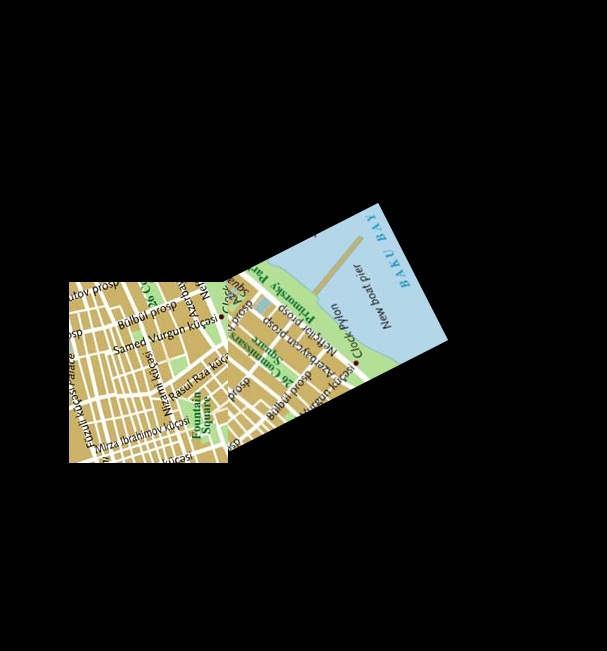
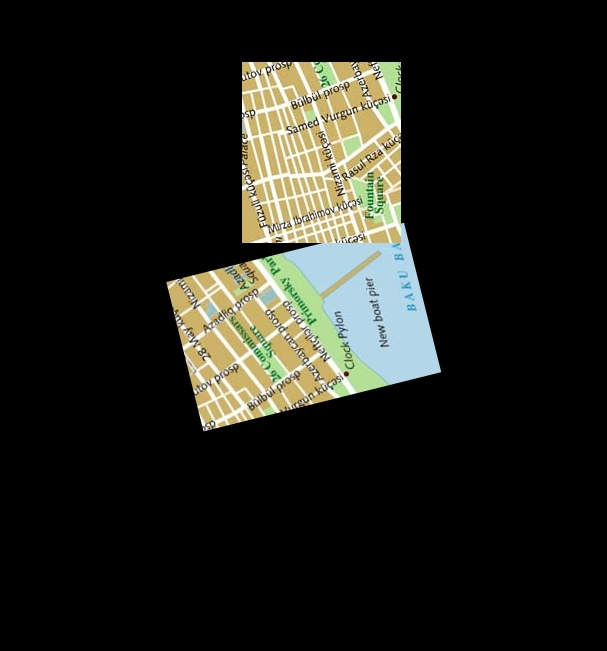
Rotate elements using numpy for

Changed region(s): [[0.089, 0.0922, 0.7414, 0.7373]]

diff --git a/CoordinateSystem.py b/CoordinateSystem.py
@@ -1,4 +1,5 @@
 from shapely.geometry import Polygon
+from shapely.geometry import CAP_STYLE
 from shapely.geometry import Point
 from shapely.affinity import affine_transform
 from shapely.affinity import rotate
@@ -20,6 +21,7 @@ class CoordinateSystem:
 
     def __init__(self,centre):
         self.centreOfRectangle2 = centre
+        CAP_STYLE.flat
     
     def set_rectangles(self,rectangles):
         # plt.clf()
@@ -33,21 +35,19 @@ class CoordinateSystem:
         # plt.plot(x2, y2,color='black')
         
     def rotateElement(self,geometricFigure, thetha):
-        # Start = time.time()
+        Start = time.time()
         # a = math.cos(thetha)
         # b = math.sin(thetha)
         centrex, centrey = Polygon(self.rectangle2).centroid.coords.xy
         centrex, centrey = centrex[0], centrey[0]
-        # M = [a,-b,b,a,(1-a)*centrex+b*centrey,centrey -b*centrex-a*centrey]
-        # rotated = affine_transform(geometricFigure,M)
+        coords = np.array(geometricFigure.coords)
+        rotated = np.array([self.rotateTranslateCoordinates(tuple(point),centrex,centrey,thetha) for point in coords])
+        rotated = rotated.T
+        # rotated = rotate(geometricFigure, thetha,origin=(centrex,centrey))
         # rotated = loads(dumps(rotated, rounding_precision=0))
-
-        rotated = rotate(geometricFigure, thetha,origin=(centrex,centrey))
-        
-        
-        # end = time.time()
-        # print("Rotate line: ",end-Start,"\n\n" )
-        return rotated
+        end = time.time()
+        print("Rotate line: ",end-Start,"\n\n" )
+        return rotated.astype(int)
 
     def rotateTranslateCoordinates(self,coor,centreX,centreY,angle):
         X,Y = coor
@@ -112,9 +112,12 @@ class CoordinateSystem:
         # print("geting the coornates: ",end-Start,"\n\n" )
         return LineString(coordinatesInPolygon)
 
+    def get_numpy_coords(self, shape):
+        coordintes = np.array(shape.xy)
+        return coordintes
+
     def make_image_format_indexing(self,coordintes):
         # Start = time.time()
-        coordintes = np.array(coordintes.xy)
         new_format = np.repeat(coordintes,3,1)
         new_format = np.append(new_format,np.array([np.tile(np.array([0,1,2]),int(len(coordintes[0])))]),axis=0)
         # end = time.time()
@@ -138,12 +141,13 @@ class CoordinateSystem:
         coordintes_of_intersection = self.get_coordinates_in_polygon(intersection)
         if coordintes_of_intersection == -1:
             return -1
-        initialPolygon2 = self.rotateElement(coordintes_of_intersection,-thetha)
+        numpy_coords_2 = self.rotateElement(coordintes_of_intersection,-thetha)
         initialPolygon1 = self.shiftAnElement(coordintes_of_intersection,SHIFT_X,SHIFT_Y)
         # x2, y2 =initialPolygon2.coords.xy	
         # plt.plot(x2, y2,color='blue')
-        coordinates_in_polygon1 = self.make_image_format_indexing(initialPolygon1)
-        coordinates_in_polygon2 = self.make_image_format_indexing(initialPolygon2)
+        numpy_coords_1 = self.get_numpy_coords(initialPolygon1)
+        coordinates_in_polygon1 = self.make_image_format_indexing(numpy_coords_1)
+        coordinates_in_polygon2 = self.make_image_format_indexing(numpy_coords_2)
         coordinates_in_polygon1 = self.makeImageCoordinateFormat(coordinates_in_polygon1)
         coordinates_in_polygon2 = self.makeImageCoordinateFormat(coordinates_in_polygon2)
         # plt.axis('equal')

diff --git a/ImageStitcher.py b/ImageStitcher.py
@@ -42,8 +42,8 @@ class ImageStitcher:
 
     def calculateLoss(self,SHIFT):
         SHIFT_X,SHIFT_Y, thetha = SHIFT
-        SHIFT_X, SHIFT_Y, thetha = int(SHIFT_X*(self.w1+self.w2)),int(SHIFT_Y*(self.h1+self.h2)),int(thetha*360)
-        # SHIFT_X, SHIFT_Y, thetha = int(SHIFT_X),int(SHIFT_Y),int(thetha)
+        # SHIFT_X, SHIFT_Y, thetha = int(SHIFT_X*(self.w1+self.w2)),int(SHIFT_Y*(self.h1+self.h2)),int(thetha*360)
+        SHIFT_X, SHIFT_Y, thetha = int(SHIFT_X),int(SHIFT_Y),int(thetha)
         sys.stdout.write("\r    SHIFT_X:{0},    SHIFT_Y:{1},    Angle:{2}         ☚||||".format(SHIFT_X,SHIFT_Y,thetha))
         if (SHIFT_X>=self.w1+self.img2_canvas_size-self.img2_canvas_size*0.05 or SHIFT_Y>=self.h1+self.img2_canvas_size-self.img2_canvas_size*0.05 or SHIFT_Y<self.img2_canvas_size*0.05 or SHIFT_X<self.img2_canvas_size*0.05):
             return 255*3*self.w1*self.h1*self.h2*self.w2
@@ -96,7 +96,7 @@ class ImageStitcher:
         print("\n\n\n\n")
         return [res.fun,res.x]
 
-    def mosaicImagqes(self,n):
+    def mosaicImages(self,n):
         print("\n\n\n")
         self.set_canvas()
         savedParameters = Parallel(n_jobs=1, backend="threading")(delayed(self.run_nelder_mead)(i,n) for i in range(n))

diff --git a/testShapely.py b/testShapely.py
@@ -4,8 +4,14 @@ from shapely.affinity import affine_transform
 from shapely.geometry import LineString
 from shapely.wkt import loads
 from shapely.wkt import dumps
+from shapely.geometry import CAP_STYLE
 import matplotlib.pyplot as plt
 import numpy as np
 
-polyg = Polygon([(0,0),(0,10.23),(10.12,10.1),(10,0.4)])
-print(loads(dumps(polyg, rounding_precision=0)))
+# polyg = Polygon([(0,0),(0,10.23),(10.12,10.1),(10,0.4)])
+# # print(loads(dumps(polyg, rounding_precision=0)))
+# a = polyg.buffer(0.01,cap_style=CAP_STYLE.round)
+# print(a)
+
+b = Point(1, 1).buffer(1.5, resolution=2)
+print(b)

diff --git a/main.py b/main.py
@@ -8,7 +8,7 @@ class main:
 
     def mosaic2Images(img1,img2):
         mosaic = ImageStitcher(img1.copy(),img2.copy(),False)
-        mosaic.mosaicImages(5)
+        mosaic.mosaicImages(4)
         #mosaic.drawImage(mosaic.BestX,mosaic.BestY,360-mosaic.Best_Rotate,0)
 
     def clearScreen():
